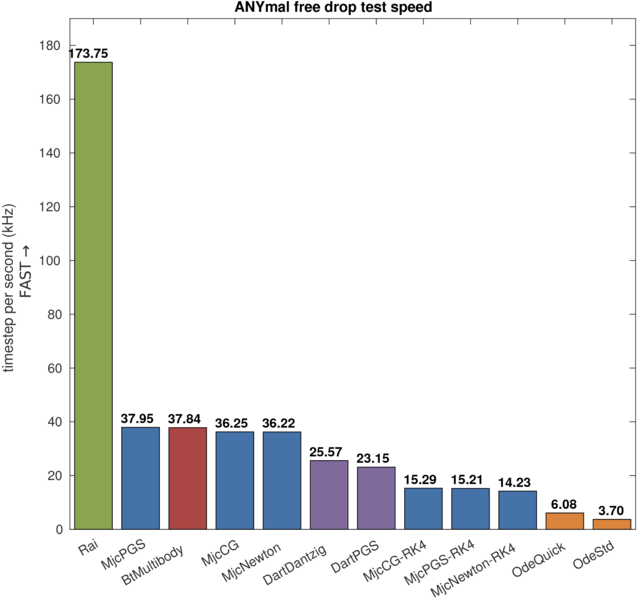
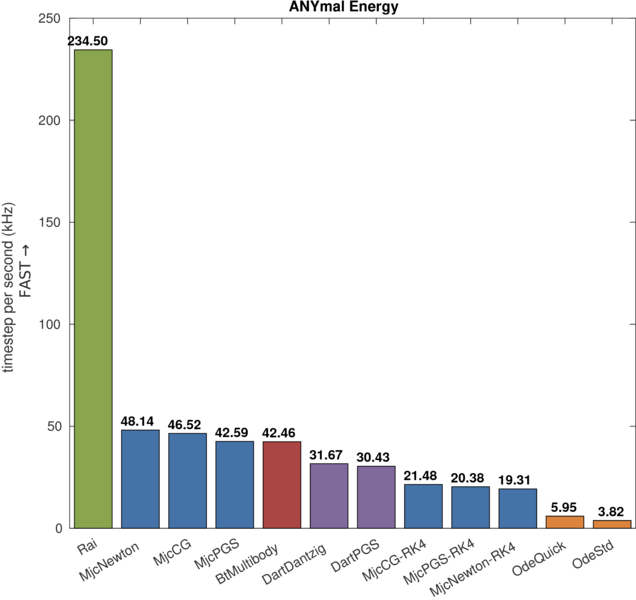
- anymal energy benchmark plot updated

Changed region(s): [[0.0, 0.0, 1.0, 0.99], [0.3585, 0.0, 0.6871, 0.03], [0.8962, 0.93, 0.9261, 0.96]]

diff --git a/docs/anymal-energy/anymal-energy.html b/docs/anymal-energy/anymal-energy.html
@@ -92,6 +92,13 @@ The test focuses on:
 </p>
 
 <p>
-    <img src="anymal-energy-error-speed.png" alt="anymal-energy-speed-plot">
-    <img src="anymal-energy-speed-bar.png" alt="anymal-energy-speed-bar-graph">
+    <div class="row">
+        <div class="column">
+            <img src="anymal-energy-error-speed.png" alt="anymal-energy-speed-plot">
+        </div>
+        <div class="column">
+            <img src="anymal-energy-speed-bar.png" alt="anymal-energy-speed-bar-graph">
+        </div>
+    </div>
+
 </p>

diff --git a/etc/matlab/plot-gen/anymal_energy.m b/etc/matlab/plot-gen/anymal_energy.m
@@ -99,7 +99,7 @@ for i = 1:size(T2, 1)
         'FaceColor', spec{3})
 end
 hold off
-title(sprintf('ANYmal free drop test speed'))
+title('ANYmal Energy')
 % numbers on bars
 text(1:length(speed), ...
     speed, ...
@@ -108,10 +108,10 @@ text(1:length(speed), ...
     'horiz','center', ...
     'FontWeight','bold');
 ylabel(sprintf('timestep per second (kHz) \n FAST →'))
-ylim([0, 190])
-saveas(h, strcat('freedrop-plots/speed-bar.png'))
-saveas(h, strcat('freedrop-plots/speed-bar.eps'), 'epsc')
-saveas(h, strcat('freedrop-plots/speed-bar.fig'), 'fig')
+% ylim([0, 190])
+saveas(h, strcat('anymal-energy-plots/speed-bar.png'))
+saveas(h, strcat('anymal-energy-plots/speed-bar.eps'), 'epsc')
+saveas(h, strcat('anymal-energy-plots/speed-bar.fig'), 'fig')
 
 %%%%%%%%%%%%%%%%%%%%%%%%%%%%%%%%%%%%%%%%%%%%%%%%%%%%%%%%%%%%%%%%%%%%%%%%%%%
 %% functions
@@ -180,16 +180,16 @@ for i = 1:length(sims)
 end
 % end sims
 hold off
-title(['Energy Error ', plotTitle])
+title('ANYmal Energy')
 xlabel(sprintf('real time factor \n FAST →'))
 ylabel(sprintf('squared error (log scale) \n ACCURATE →'))
 % xlim([1e-1, 10^5.5])
 % ylim([1e-8, 1e6])
 lgd = legend('Location', 'northeast');
 lgd.NumColumns = 2;
-saveas(h, strcat('freedrop-plots/error-speed', fileName, '.png'))
-saveas(h, strcat('freedrop-plots/error-speed', fileName, '.eps'), 'epsc')
-saveas(h, strcat('freedrop-plots/error-speed', fileName, '.fig'), 'fig')
+saveas(h, strcat('anymal-energy-plots/error-speed', fileName, '.png'))
+saveas(h, strcat('anymal-energy-plots/error-speed', fileName, '.eps'), 'epsc')
+saveas(h, strcat('anymal-energy-plots/error-speed', fileName, '.fig'), 'fig')
 
 
 end
